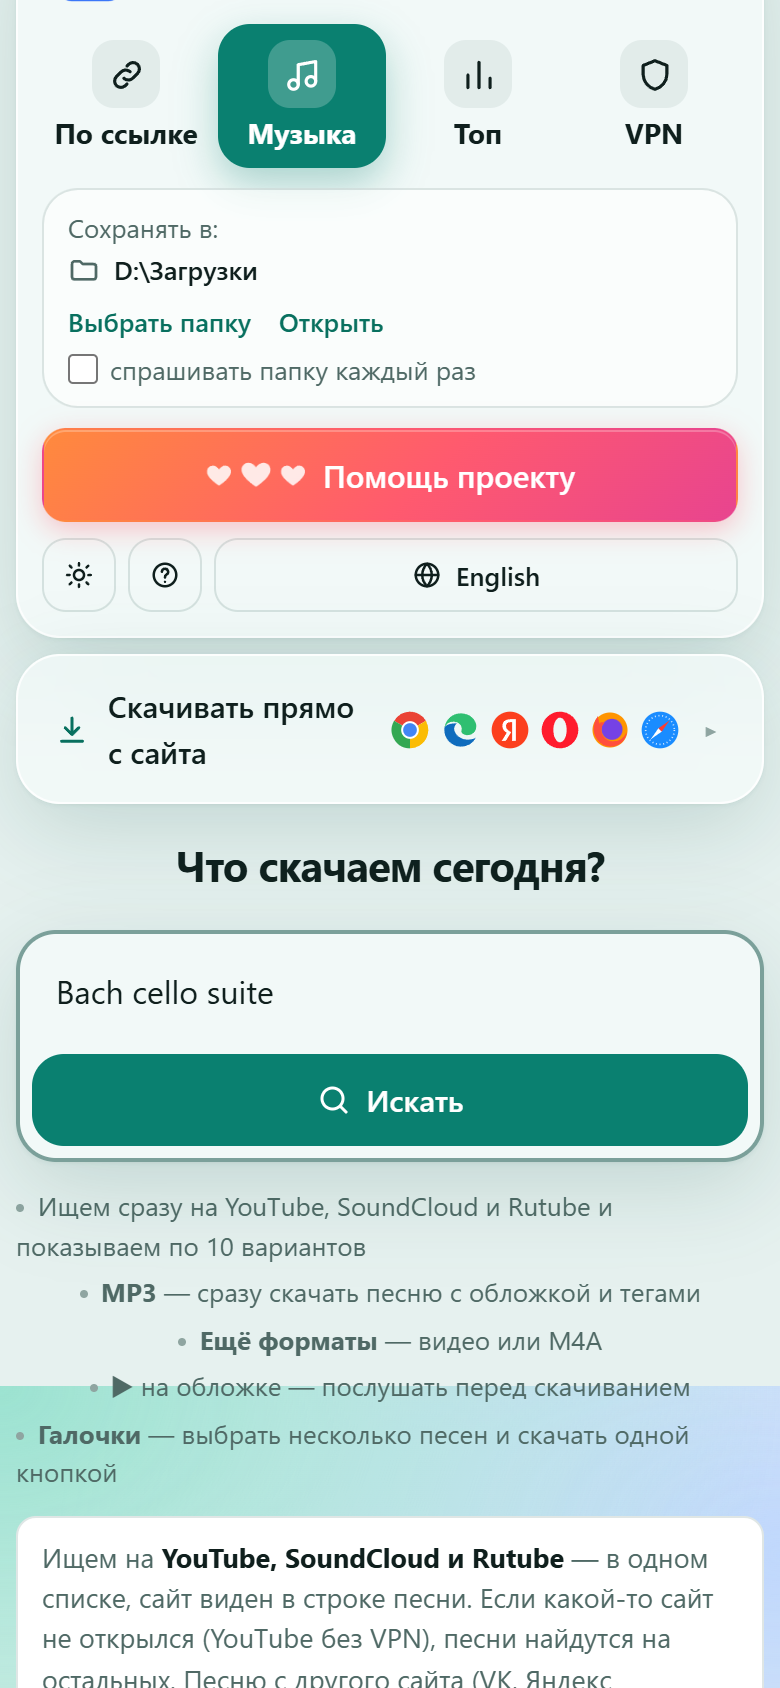
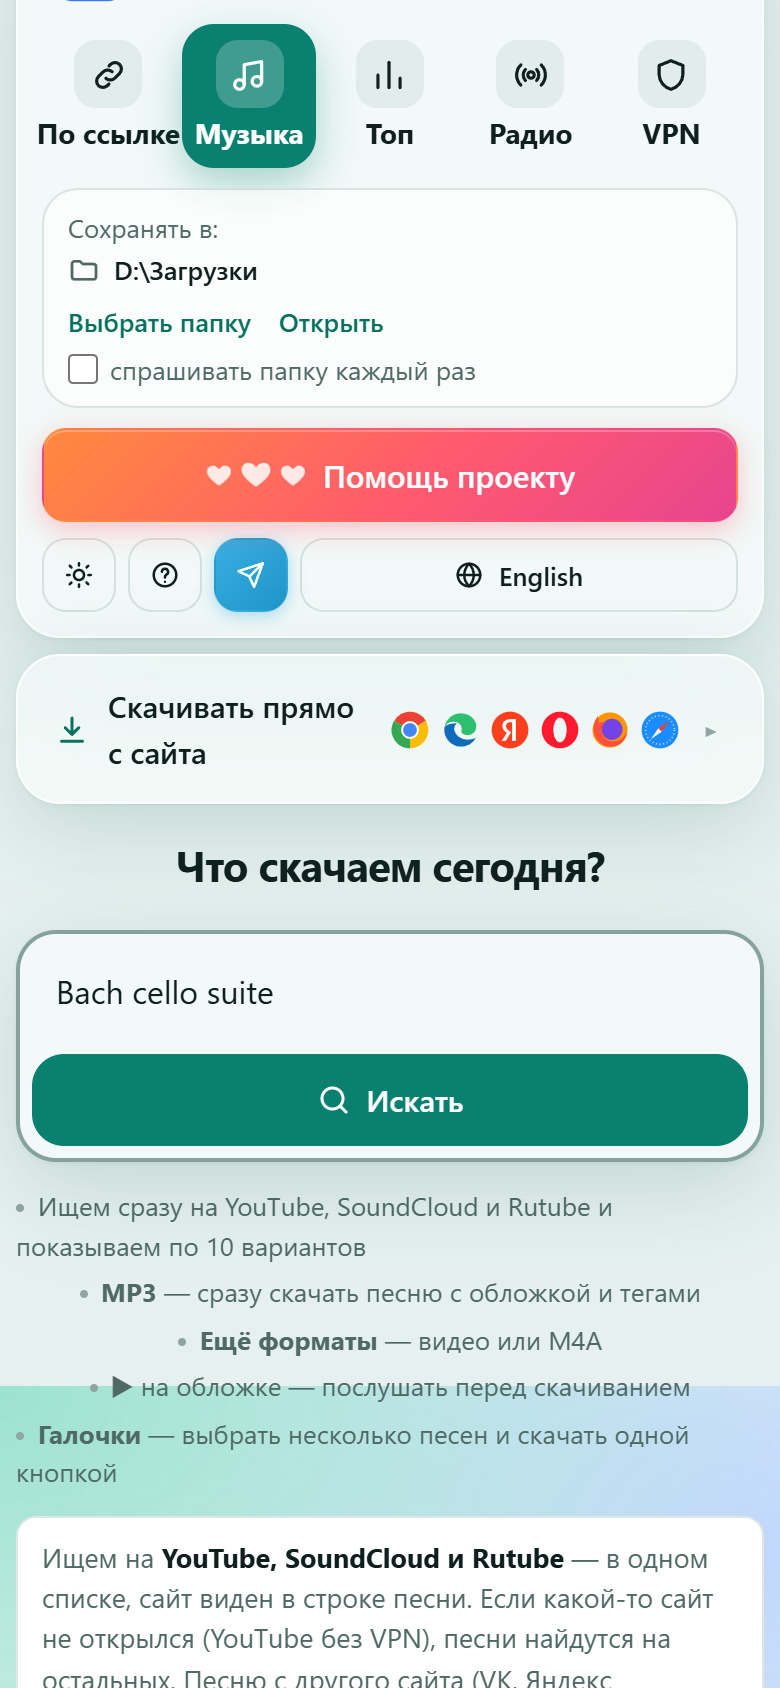
Версия 1.6: вкладка «Радио» (избранное, громкость, скрытие неотвечающих станций), «Топ» со сдвигом и сроком, выбор озвучки kinogo, кнопка «Контакты»; README и скриншоты обновлены (русский и английский)

diff --git a/app.py b/app.py
@@ -140,7 +140,7 @@ DOWNLOADS = BASE / 'Скачанное'
 COOKIES = BASE / 'cookies.txt'
 SETTINGS = BASE / 'settings.json'
 EXTENSION = BASE / 'extension'
-VERSION = '1.5.1'  # номер этой версии = тег релиза на GitHub без «v» (updater.py сверяет их)
+VERSION = '1.6'  # номер этой версии = тег релиза на GitHub без «v» (updater.py сверяет их)
 UPDATE_API = (os.environ.get('DOWNLOADER_UPDATE_API')  # для проверки обновления без настоящего релиза
               or 'https://api.github.com/repos/OlegChe77/universal-downloader/releases/latest')
 UPDATE_DIR = BASE / 'update'  # скачанная новая версия и старые файлы на время замены

diff --git a/README.md b/README.md
@@ -31,10 +31,10 @@
 - **Видео по ссылке**: MP4 в выбранном качестве, от 144p до 4K. Видео и звук склеиваются сами.
 - **Только звук**: MP3 с обложкой и тегами («Исполнитель – Песня» берётся из названия ролика) или M4A без перекодирования.
 - **Поиск музыки по названию** сразу на YouTube, SoundCloud и Rutube — одним списком по 10 песен с обложками и кнопкой «Показать ещё 10». MP3 качается в один щелчок, а галочками можно выбрать несколько песен и скачать их одной кнопкой.
-- **Топ**: вкладка «Топ» — 20 самых слушаемых песен: русские (Яндекс Музыка, за сутки) и иностранные (Spotify, мир, за неделю). Первые три — карточками с обложкой; кнопка «Скачать» подставляет песню на вкладку «Музыка» и запускает поиск. Списки обновляются раз в сутки.
-- **Радио**: вкладка «Радио» — все станции мира (около 50 тысяч, из каталога Radio Browser), российские всегда первыми. Жанры, страны и поиск по названию; у станции видно, что сейчас играет. ▶ включает станцию прямо в программе, а «Скачать песню» находит песню из эфира на вкладке «Музыка».
+- **Топ**: вкладка «Топ» — 20 самых слушаемых песен: русские (Яндекс Музыка, за сутки) и иностранные (Spotify, мир, за неделю). Первые три — карточками с обложкой; у каждой песни видно, как она сдвинулась с прошлого раза (▲ с 12, ▼ 3, «Новинка») и сколько держится в топе. Кнопка «Скачать» подставляет песню на вкладку «Музыка» и запускает поиск. Списки обновляются раз в сутки.
+- **Радио**: вкладка «Радио» — все станции мира (около 50 тысяч, из каталога Radio Browser), российские всегда первыми. Жанры, страны и поиск по названию; у станции видно, что сейчас играет. У каждой станции есть звёздочка: избранные собираются на отдельной вкладке «Избранное». Станции, которые не отвечают, прячутся сами. ▶ включает станцию прямо в программе (с громкостью в полосе «Сейчас играет»), а «Скачать песню» находит песню из эфира на вкладке «Музыка».
 - **Послушать перед скачиванием**: плеер-«островок» над полем с перемоткой, громкостью и переходом к следующей песне. Им можно управлять клавишами и кнопками мультимедиа на клавиатуре.
-- **Фильмы и сериалы** с kinogo и похожих сайтов (плееры CCDN, ShizaHD, VeoVeo): в карточке «Что скачать» выбираются плеер, сезон и серия — весь сериал, один сезон или одна серия; озвучки — в «Звуковой дорожке».
+- **Фильмы и сериалы** с kinogo и похожих сайтов (плееры CCDN, ShizaHD, VeoVeo): в карточке «Что скачать» выбираются плеер, сезон и серия — весь сериал, один сезон или одна серия; в строке «Озвучка» — выбор студии перевода («ТВ3», «Baibako», «Eng.Original»…) для одной серии, сезона или всего сериала, либо все озвучки сразу в одном MP4.
 - **Звуковая дорожка и субтитры**: у роликов с несколькими языками — выбор дорожки (по умолчанию русская) или все сразу в одном MP4; субтитры — вшить в видео или отдельным `.srt`.
 - **Сжать видео**: кнопка у скачанного ролика делает файл меньше (H.265), исходный остаётся.
 - **Плейлисты и списки ссылок**: целый плейлист или несколько ссылок (каждая с новой строки) качаются по очереди.
@@ -45,12 +45,17 @@
 - **Значок у часов**: программа работает в фоне без лишних окон. Меню значка: «Открыть», «Папка загрузок», «Выход». Повторный запуск не плодит вкладки: если страница уже открыта, она мигает заголовком.
 - **Своя папка загрузок**, светлая и тёмная тема, понятные объяснения ошибок.
 - **Русский и английский интерфейс**: кнопка «English» справа вверху (по умолчанию — язык Windows). На нём же меню у часов, заставка, ошибки, установка и расширение.
+- **Контакты**: кнопка с синим значком Telegram в панели (и на странице «Помощь») открывает [канал автора](https://t.me/PravDoruB).
 - **Сама обновляет yt-dlp** раз в сутки: сайты часто меняют защиту, и свежий yt-dlp это исправляет.
 - **Обновляет и себя**: раз в три дня проверяет новую версию на GitHub и ставит её одной кнопкой (с проверкой SHA-256; если новая версия не запустилась, возвращает старую).
 
 | Сериал с kinogo: «Что скачать» — плеер, сезон и серия |
 |---|
 | ![Карточка сериала «Менталист» с kinogo: выбор плеера (CCDN, ShizaHD, VeoVeo), сезона и серии, варианты качества MP4, MP3 и M4A](docs/screenshots/kinogo.png) |
+
+| Радио: все станции мира, избранное, жанры и страны |
+|---|
+| ![Вкладка «Радио»: переключатель «Все станции / Избранное», поиск, страны и жанры чипами, станции со звёздочкой, «Скачать песню» и ▶](docs/screenshots/radio.png) |
 
 | Музыка: поиск по названию, галочки и «Скачать MP3 / M4A» | Прослушивание перед скачиванием |
 |---|---|
@@ -127,13 +132,16 @@
 - **Слушать**: песня играет в плеере;
 - **Скачать**: песня подставляется на вкладку «Музыка», и сразу идёт поиск — дальше как обычно.
 
-Списки обновляются раз в сутки.
+У каждой песни стоит отметка изменения: ▲ с 12 (была 12-й), ▼ 3, «=», «Новинка» или «Вернулась» — и сколько она уже в топе. Списки обновляются раз в сутки.
 
 ### Радио
 На вкладке **«Радио»** — все станции мира из открытого каталога [Radio Browser](https://www.radio-browser.info), российские всегда сверху. Список обновляется раз в сутки.
 - **Жанр** — ряд сверху (кнопка «Ещё» показывает остальные); с выбранным жанром станции идут блоками по странам, блок можно свернуть.
 - **Страна** — полоса внизу: десять главных стран, остальные — в «Ещё страны».
 - **Поиск** — по названию станции, городу или жанру.
+- **Избранное** — звёздочка у станции (и в полосе «Сейчас играет»); переключатель «Все станции / Избранное» над поиском показывает только отмеченные, список хранится в браузере.
+- **Громкость** — кнопка «выключить звук» и ползунок в полосе «Сейчас играет»; громкость общая с плеером песен.
+- **Не отвечают** — станции без звука скрываются и проверяются снова через 2, 10, 30 минут, потом раз в час.
 - **Сейчас играет** — название песни, которое передаёт сама станция (у части станций его нет). «Обновить» узнаёт заново.
 - **▶** — слушать станцию прямо здесь; **«Скачать песню»** подставит «исполнитель — песня» на вкладку «Музыка» и запустит поиск — дальше как обычно.
 

diff --git a/README.en.md b/README.en.md
@@ -32,8 +32,8 @@ The interface is in English and Russian: the language button is at the top right
 - **Video by link**: MP4 in the quality you choose, from 144p to 4K. Video and audio are merged automatically.
 - **Audio only**: MP3 with cover and tags (“Artist – Song” is taken from the video title) or M4A without re-encoding.
 - **Music search by name** on YouTube, SoundCloud and Rutube at once — one list of 10 songs with covers and a “Show 10 more” button. MP3 downloads in one click, and with checkboxes you can select several songs and download them with one button.
-- **Top chart**: the “Top” tab — the 20 most played songs: Russian (Yandex Music, daily) and international (Spotify, worldwide, weekly). The first three are cards with covers; the “Download” button puts the song into the “Music” tab and starts the search. The lists refresh once a day.
-- **Radio**: the “Radio” tab — all the world’s stations (about 50 thousand, from the Radio Browser directory), Russian ones always first. Genres, countries and search by name; each station shows what is playing now. ▶ plays the station right in the program, and “Download song” finds the song on air on the “Music” tab.
+- **Top chart**: the “Top” tab — the 20 most played songs: Russian (Yandex Music, daily) and international (Spotify, worldwide, weekly). The first three are cards with covers; each song shows how it moved since last time (▲ from 12, ▼ 3, “New”) and how long it has been on the chart. The “Download” button puts the song into the “Music” tab and starts the search. The lists refresh once a day.
+- **Radio**: the “Radio” tab — all the world’s stations (about 50 thousand, from the Radio Browser directory), Russian ones always first. Genres, countries and search by name; each station shows what is playing now. Every station has a star: favorites are kept on a separate “Favorites” view. Stations that do not respond hide themselves. ▶ plays the station right in the program (with volume in the “Now playing” bar), and “Download song” finds the song on air on the “Music” tab.
 - **Listen before downloading**: a player “island” above the field with seeking, volume and the next song. It works with the keyboard and media keys.
 - **Audio tracks and subtitles**: for videos in several languages — choose the track (the original by default) or all of them in one MP4; subtitles — embedded in the video or as a separate `.srt`.
 - **Compress video**: a button on a downloaded video makes the file smaller (H.265), the original stays.
@@ -43,8 +43,13 @@ The interface is in English and Russian: the language button is at the top right
 - **VPN app with a proxy** (v2rayN, Hiddify, NekoBox, Clash, Happ…): if a site does not open directly, the program finds the proxy by itself and goes through it. The “Secure DNS” checkbox helps when your provider “does not know” a site’s address.
 - **Icon by the clock**: the program runs in the background without extra windows. Icon menu: “Open”, “Downloads folder”, “Exit”. Starting it again does not pile up tabs: if the page is already open, its title blinks.
 - **Your own download folder**, light and dark theme, clear explanations of errors.
+- **Contacts**: a blue Telegram button in the panel (and on the “Help” page) opens the [author’s channel](https://t.me/PravDoruB).
 - **Updates yt-dlp by itself** once a day: sites often change their protection, and a fresh yt-dlp fixes that.
 - **Updates itself too**: every three days it checks GitHub for a new version and installs it with one click (with a SHA-256 check; if the new version does not start, it rolls back).
+
+| Radio: all the world’s stations, favorites, genres and countries |
+|---|
+| ![The “Radio” tab: the “All stations / Favorites” switch, search, country and genre chips, stations with a star, “Download song” and ▶](docs/screenshots/en/radio.png) |
 
 | Music: search by name, checkboxes and “Download MP3 / M4A” | Listen before downloading |
 |---|---|
@@ -119,13 +124,16 @@ The **“Top”** tab shows the 20 most played songs: Russian (the Yandex Music 
 - **Listen**: the song plays in the player;
 - **Download**: the song goes into the “Music” tab and the search starts — then as usual.
 
-The lists refresh once a day.
+Every song carries a movement mark: ▲ from 12 (it was 12th), ▼ 3, “=”, “New” or “Back” — and how long it has been on the chart. The lists refresh once a day.
 
 ### Radio
 The **“Radio”** tab lists all the world’s stations from the open [Radio Browser](https://www.radio-browser.info) directory, Russian ones always on top. The list refreshes once a day.
 - **Genre** — the row at the top (“More” shows the rest); with a genre chosen, stations come in blocks by country, and a block can be collapsed.
 - **Country** — the bar at the bottom: the ten main countries, the rest under “More countries”.
 - **Search** — by station name, city or genre.
+- **Favorites** — the star on a station (and in the “Now playing” bar); the “All stations / Favorites” switch above the search shows only the starred ones; the list is kept in the browser.
+- **Volume** — a mute button and a slider in the “Now playing” bar; the volume is shared with the song player.
+- **Not responding** — silent stations hide and are checked again after 2, 10, 30 minutes, then hourly.
 - **Now playing** — the song title the station itself sends (some stations do not). “Refresh” checks again.
 - **▶** — listen to the station right here; **“Download song”** puts “artist — song” into the “Music” tab and starts the search — then as usual.
 
